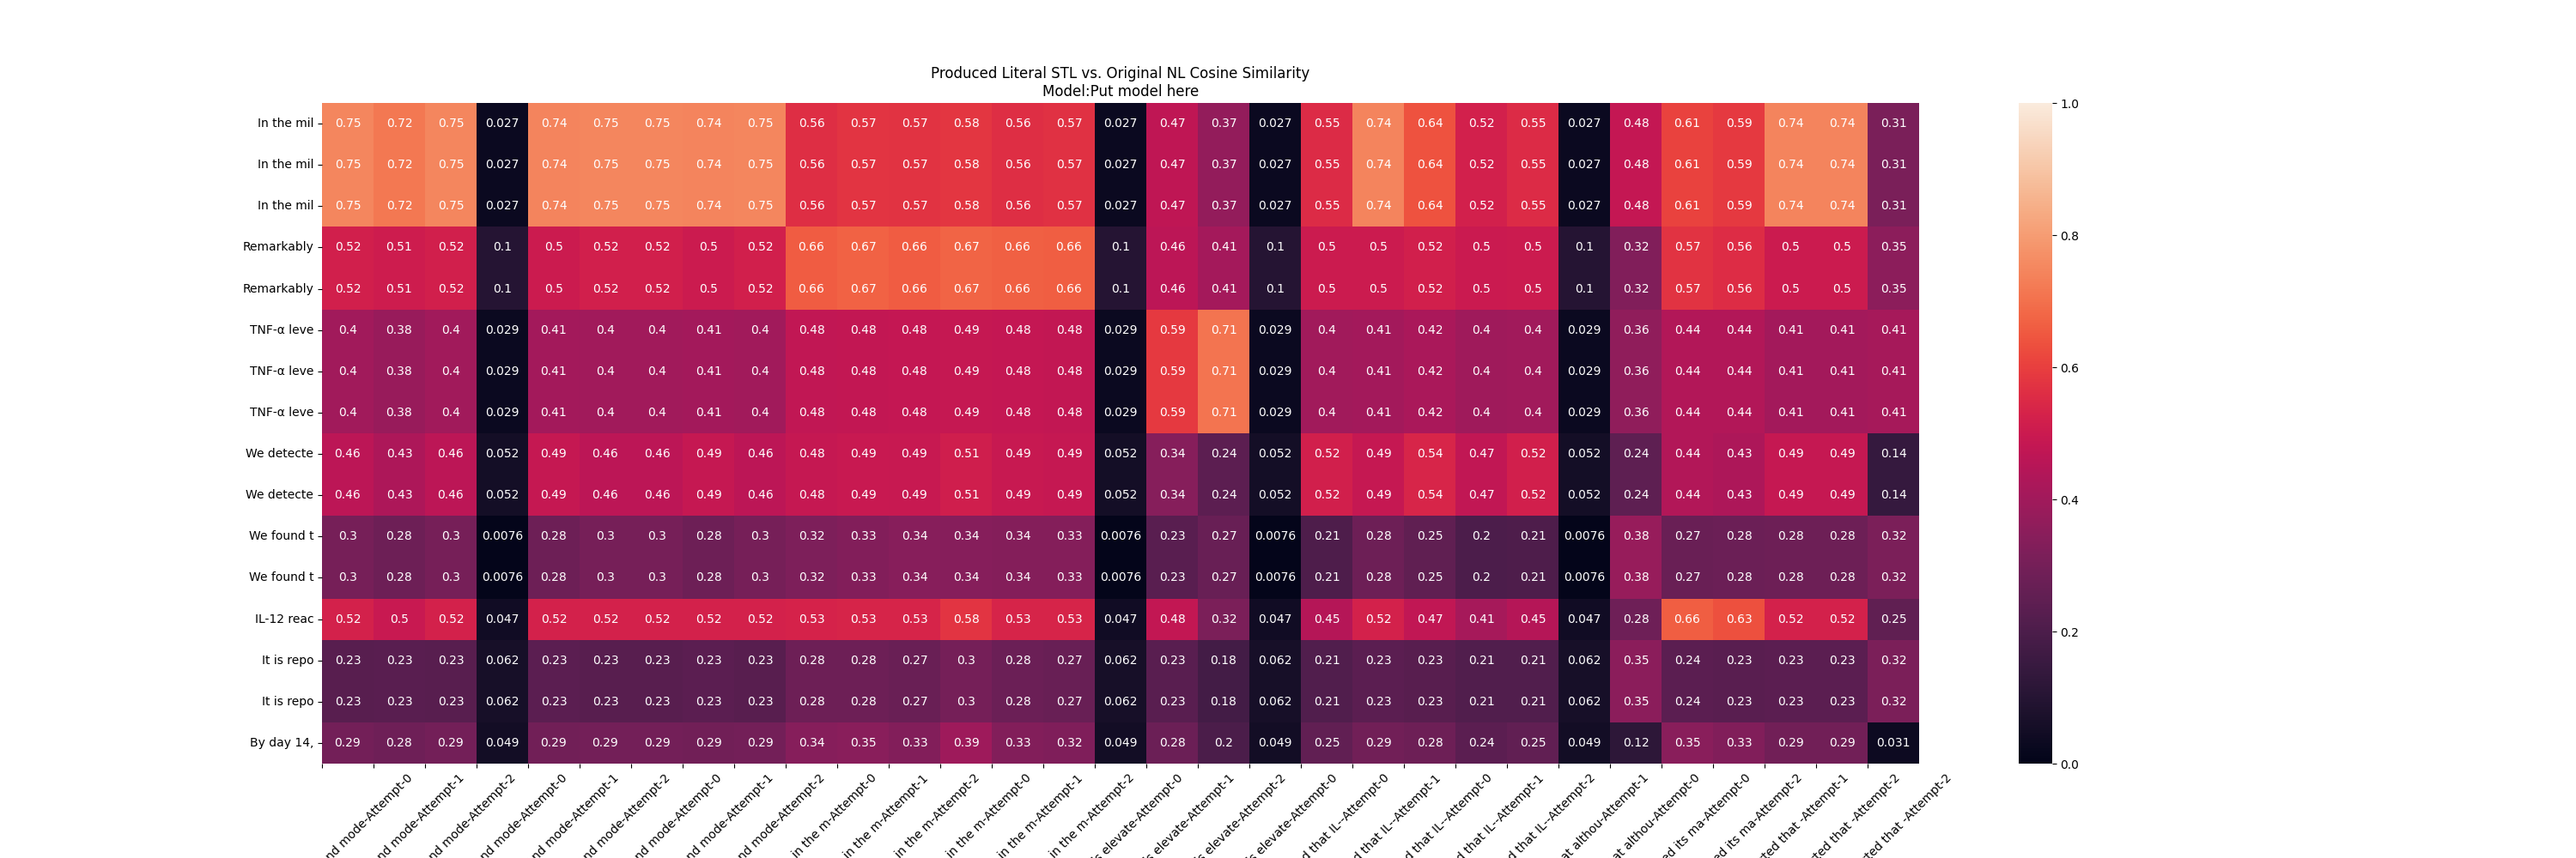
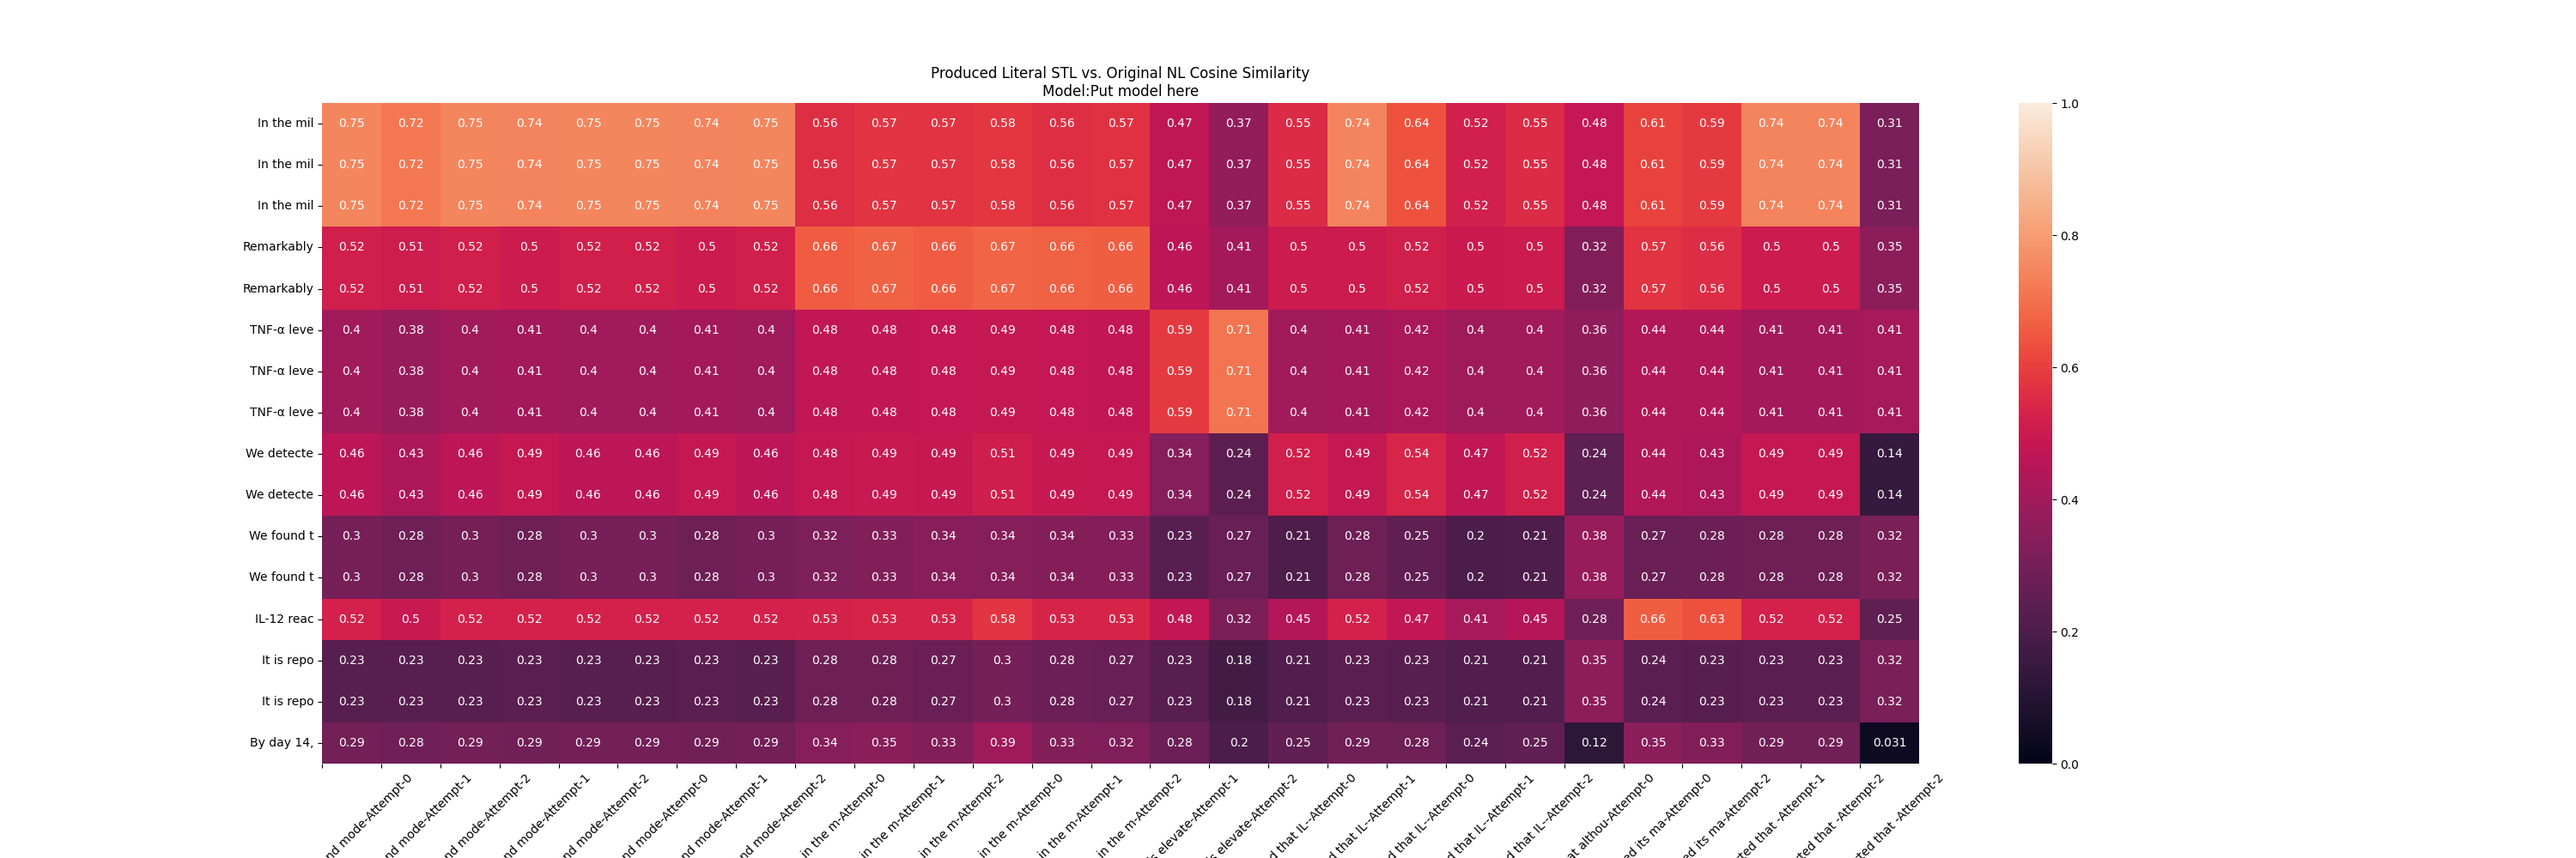
fixed bad cols

diff --git a/ollama_container/heatmap_generators/stl_evaluation.py b/ollama_container/heatmap_generators/stl_evaluation.py
@@ -95,15 +95,23 @@ literal_sentence_embeddings = embedding_model.encode(translations.filter(regex='
 nl_sentences = np.array(translations['input statement'].str[:10])
 
 literal_sentences = translations.filter(regex='Literal-').copy()
-for col in literal_sentences.columns:
-    literal_sentences[col] = np.where(literal_sentences[col]==None, 0, 1)
+test_sentences = literal_sentences.copy()
 print("--------------------------------------------------------------------------------------------")
-for l in literal_sentences:
+print("test sentences BEFORE filtering")
+for l in test_sentences['Literal-0']:
+    print(f'{l}\n')
+print("--------------------------------------------------------------------------------------------")
+
+for col in test_sentences.columns:
+    test_sentences[col] = np.where(pandas.isna(test_sentences[col]), 0, 1)
+print("--------------------------------------------------------------------------------------------")
+print("test sentences after filtering")
+for l in test_sentences['Literal-0']:
     print(f'{l}\n')
 print("--------------------------------------------------------------------------------------------")
 
 for col in literal_sentences.columns:
-    literal_sentences[col] = np.where((literal_sentences[col]==None) | (literal_sentences[col]=='Literal could not be generated') | (literal_sentences[col]=='STL to literal failed'), literal_sentences[col], "Sentence-" + translations['input statement'].str[:20] + "-Attempt-" + str(col.split('-')[1]))
+    literal_sentences[col] = np.where((pandas.isna(literal_sentences[col])) | (literal_sentences[col]=='Literal could not be generated') | (literal_sentences[col]=='STL to literal failed'), literal_sentences[col], "Sentence-" + translations['input statement'].str[:20] + "-Attempt-" + str(col.split('-')[1]))
 
 literal_sentences = literal_sentences.to_numpy().flatten()
 print("--------------------------------------------------------------------------------------------")
